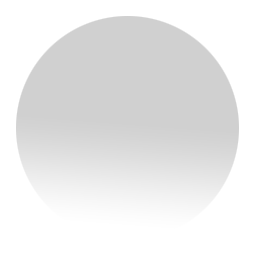
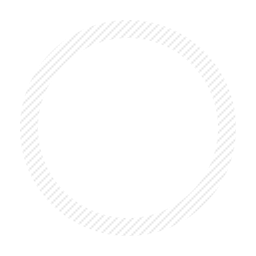
scale image

diff --git a/kursordance/circle.py b/kursordance/circle.py
@@ -10,9 +10,10 @@ class Circle(pygame.sprite.Sprite):
     def __init__(self):
         pygame.sprite.Sprite.__init__(self)
         self.images = []
-        img = pygame.image.load(path + "/assets/hitcircle.png")
+        img = pygame.image.load(path + "/assets/hitcircleoverlay.png")
         self.images.append(img)
         self.image = self.images[0]
         self.rect = self.image.get_rect()
+        self.rect.center = (WIDTH / 2, HEIGHT / 2 )
     def update(self):
         pass
